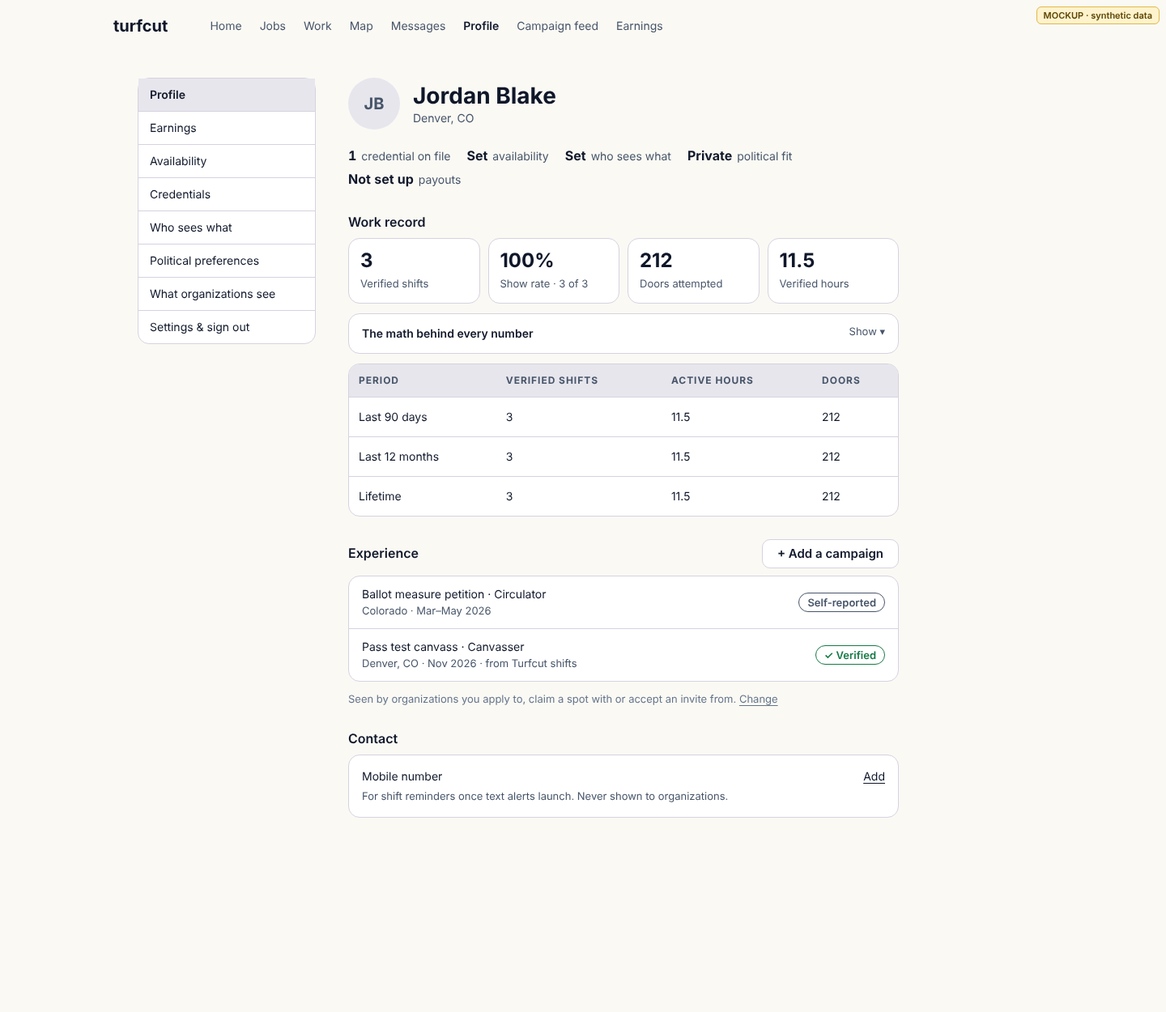
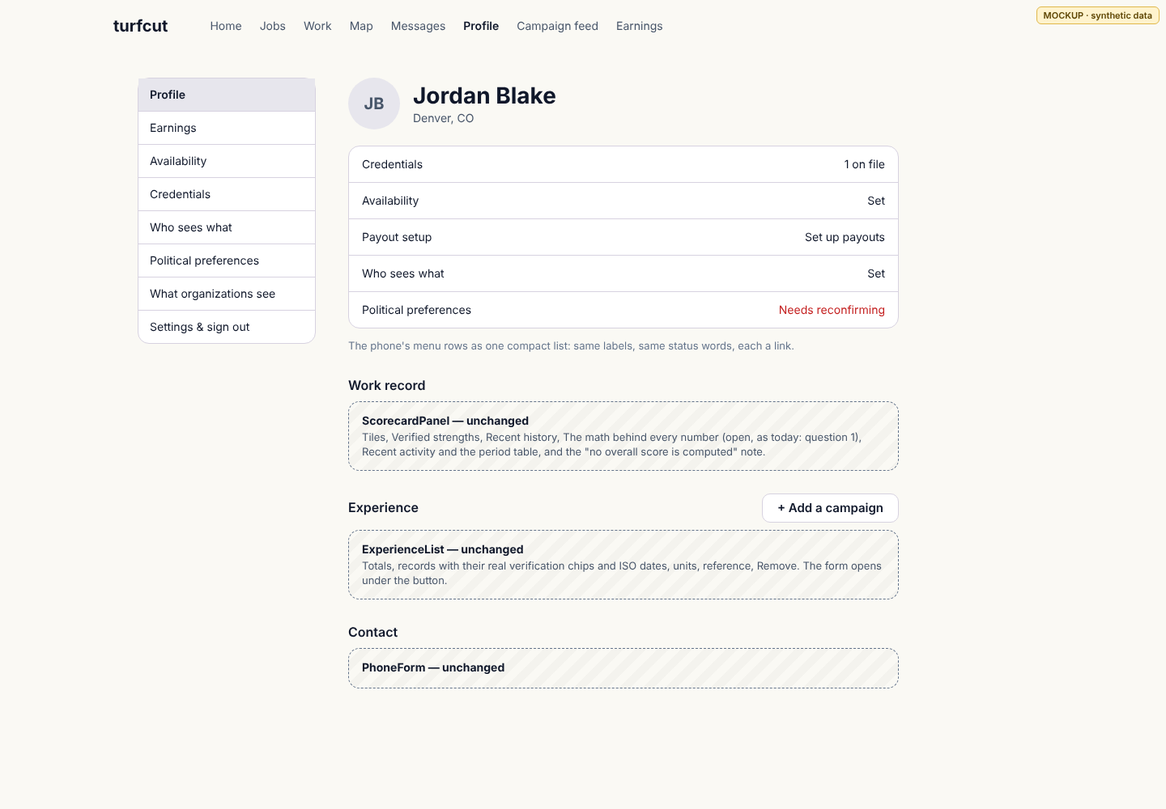
Mockups: plan review fixes (real status words, consent-lapse state, home-area warning kept, unchanged components drawn as placeholders, settings role differences)
Claude-Session: https://claude.ai/code/session_01M5jonG7B326Ty4GJKyZ5gK

diff --git a/docs/design/hero-board/mockups/profile-settings-2026-11-02/src/profile-390.html b/docs/design/hero-board/mockups/profile-settings-2026-11-02/src/profile-390.html
@@ -1,26 +1,21 @@
-<!doctype html><meta charset=utf-8><link rel=stylesheet href=base.css><body><div class="frame" style="width:390px;height:1720px"><div class=tag>MOCKUP · synthetic data</div><div class=page>
+<!doctype html><meta charset=utf-8><link rel=stylesheet href=base.css><body><div class="frame" style="width:390px;height:1500px"><div class=tag>MOCKUP · synthetic data</div><div class=page>
 <div style="display:flex;flex-direction:column;align-items:center;gap:6px;margin-top:4px"><div class=av>JB</div><h1 style="font-size:24px;line-height:32px">Jordan Blake</h1><p class=meta style="margin:0">Denver, CO</p></div>
 <div class="sec card menu">
 <div><span class=ic></span><span class=lbl>Credentials</span><span class=st>1 on file</span><span class=chev>›</span></div>
 <div><span class=ic></span><span class=lbl>Availability</span><span class=st>Set</span><span class=chev>›</span></div>
 <div><span class=ic></span><span class=lbl>Payout setup</span><span class=st>Set up payouts</span><span class=chev>›</span></div>
 <div><span class=ic></span><span class=lbl>Who sees what</span><span class=st>Set</span><span class=chev>›</span></div>
-<div><span class=ic></span><span class=lbl>Political fit</span><span class=st>Private</span><span class=chev>›</span></div>
+<div><span class=ic></span><span class=lbl>Political preferences</span><span class="st alert">Needs reconfirming</span><span class=chev>›</span></div>
 <div><span class=ic></span><span class=lbl>What organizations see</span><span class=chev style="margin-left:auto">›</span></div>
 <div><span class=ic></span><span class=lbl>Settings &amp; sign out</span><span class=chev style="margin-left:auto">›</span></div>
 </div>
+<div class=warn style="margin-top:12px">Turfcut can't place "Capitol Hil", so organizations can't find you yet. Type a ZIP code, or a city with its state ("Aurora, CO"). <u>Fix it</u></div>
 <div class=sec><h2>Work record</h2>
-<div class=tiles><div class=tile><b>3</b><span>Verified shifts</span></div><div class=tile><b>100%</b><span>Show rate · 3 of 3 scheduled</span></div><div class=tile><b>212</b><span>Doors attempted</span></div><div class=tile><b>11.5</b><span>Verified hours, breaks excluded</span></div></div>
-<p class=note>Door-to-door canvass · Worked in CO</p>
-<div class="card" style="margin-top:12px;padding:12px 16px;display:flex;justify-content:space-between;font-size:14px"><span style="font-weight:600">The math behind every number</span><span class=sub>Show ▾</span></div>
-<p class=note>Each rate with its formula, its inputs and the shifts it came from. Derived from recorded work and supervisor reviews; no overall score is computed.</p>
-</div>
-<div class=sec><h2>Experience</h2><p class=note style="margin-top:0">Seen by organizations you apply to, claim a spot with or accept an invite from. <span class=link>Change</span></p>
-<div class="card rows" style="margin-top:10px">
-<div><span>Ballot measure petition · Circulator<br><span class=sub>Colorado · Mar–May 2026</span></span><span class="pill neutral">Self-reported</span></div>
-<div><span>Pass test canvass · Canvasser<br><span class=sub>Denver, CO · Nov 2026 · from Turfcut shifts</span></span><span class="pill ok">✓ Verified</span></div>
-</div>
+<div class=ph><b>ScorecardPanel — unchanged</b>Tiles, Verified strengths, Recent history, The math behind every number (open, as today: question 1), Recent activity, and the "no overall score is computed" note.</div></div>
+<div class=sec><h2>Experience</h2><p class=note style="margin-top:0">Seen by: organizations you apply to, claim a spot with or accept an invite from (experience goes with hours and history). … <span class=link>Change</span></p>
+<div class=ph style="margin-top:10px"><b>ExperienceList — unchanged</b>Verified and self-reported totals, each record with its verification chip ("Self-reported", "Verified by Turfcut", …), ISO dates, units, reference and Remove.</div>
 <div style="margin-top:12px"><span class=btn>+ Add a campaign</span></div>
+<p class=note>The existing ExperienceForm opens under the button. Closed by default, even with no records.</p>
 </div>
-<div class=sec><h2>Contact</h2><div class="card" style="padding:14px 16px;font-size:14px;display:flex;justify-content:space-between"><span>Mobile number<br><span class=sub>Never shown to organizations</span></span><span class=link>Add</span></div></div>
+<div class=sec><h2>Contact</h2><div class=ph><b>PhoneForm — unchanged</b>Mobile number and Save; "Never shown to organizations". Stays on Profile (question 2).</div></div>
 </div><div class="dock"><span>Home</span><span>Jobs</span><span>Work</span><span>Map</span><span>Messages</span><span class="on">More</span></div></div>

diff --git a/docs/design/hero-board/mockups/profile-settings-2026-11-02/src/settings-390.html b/docs/design/hero-board/mockups/profile-settings-2026-11-02/src/settings-390.html
@@ -1,11 +1,13 @@
-<!doctype html><meta charset=utf-8><link rel=stylesheet href=base.css><body><div class="frame" style="width:390px;height:1560px"><div class=tag>MOCKUP · synthetic data</div><div class=page>
-<h1>Settings</h1><p class=meta>Signed in as jordan@example.test</p>
-<div class=sec><h2>Display</h2><p class=note style="margin:0 0 8px">Saved on this device.</p>
+<!doctype html><meta charset=utf-8><link rel=stylesheet href=base.css><body><div class="frame" style="width:390px;height:1400px"><div class=tag>MOCKUP · synthetic data</div><div class=page>
+<h1>Settings</h1><p class=meta>Text size, theme and feel are saved on this device.</p>
+<div class=sec><h2>Display</h2>
 <div class="card group"><h3>Text size</h3><div class=radio><span class="dot on"></span>Default</div><div class=radio><span class=dot></span>Large</div><div class=radio><span class=dot></span>Extra large</div></div>
-<div class="card group" style="margin-top:12px"><h3>Theme</h3><div class=radio><span class="dot on"></span>Match my phone</div><div class=radio><span class=dot></span>Light</div><div class=radio><span class=dot></span>Dark</div><div class=radio><span class=dot></span>Sunlight<br><span class=sub>Black on white, heavier lines, for working outdoors</span></div></div>
-<div class="card group" style="margin-top:12px"><h3>Motion and feel</h3><div class=radio><span class="dot on"></span>Match my phone</div><div class=radio><span class=dot></span>Less motion</div><div class=radio style="justify-content:space-between"><span>Vibrate lightly when I tap a button</span><span class="pill ok">On</span></div></div>
+<div class="card group" style="margin-top:12px"><h3>Theme</h3><div class=radio><span class="dot on"></span>Match my phone</div><div class=radio><span class=dot></span>Light</div><div class=radio><span class=dot></span>Dark</div><div class=radio><span class=dot></span>Sunlight</div><p class=sub style="margin:0 0 8px">Existing Sunlight explanation, unchanged.</p></div>
+<div class="card group" style="margin-top:12px"><h3>Motion</h3><div class=radio><span class="dot on"></span>Match my phone</div><div class=radio><span class=dot></span>Less motion</div></div>
+<div class="card group" style="margin-top:12px"><h3>Feel</h3><div class=radio style="justify-content:space-between"><span>Vibrate lightly when I tap a button</span><span class="pill ok">On</span></div></div>
+<div class=ph style="margin-top:12px"><b>Preview — unchanged</b></div>
 </div>
-<div class=sec><h2>Account</h2><div class="card rows"><div><span>Signed in as jordan@example.test</span><span class=btn style="min-height:36px">Sign out</span></div><div><span>Mobile number<br><span class=sub>Never shown to organizations</span></span><span class=link>Add</span></div></div></div>
-<div class=sec><h2>Your data</h2><div class="card" style="padding:14px 16px;font-size:14px">Everything Turfcut holds about you, as a ZIP of JSON and CSV files.<div style="margin-top:10px"><span class=btn style="min-height:36px">Download my data</span></div></div></div>
-<div class=sec style="margin-top:40px;border-top:1px solid var(--border);padding-top:24px"><h2 style="color:var(--danger)">Close my account</h2><div class="card danger" style="padding:14px 16px;font-size:14px">Your login is removed and your name and phone are replaced with "Former worker". Your work history, pay records and consent history stay as they were recorded.<p style="margin:10px 0 0"><b>Before you can close:</b> you have unpaid pay (1 line).</p><div style="margin-top:10px"><span class="btn" style="color:var(--danger);border-color:#e7b4b4;min-height:36px;opacity:.6">Close my account</span></div></div></div>
+<div class=sec><h2>Account</h2><div class="card rows"><div><span>Signed in as jordan@example.test</span><span class=btn style="min-height:36px">Sign out</span></div></div></div>
+<div class=sec><h2>Your data</h2><div class=ph><b>Download my data — unchanged</b>Workers only.</div></div>
+<div class=sec style="margin-top:40px;border-top:1px solid var(--border);padding-top:24px"><h2 style="color:var(--danger)">Close my account</h2><div class="card danger" style="padding:14px 16px;font-size:14px">Existing explanation, unchanged (shortened here).<p style="margin:10px 0 0"><b>Before you can close:</b></p><ul style="margin:4px 0 0;padding-left:18px"><li>The existing blocker text, unchanged.</li></ul><p class=sub style="margin:8px 0 0">With a blocker there is no close button, as today. Workers only.</p></div></div>
 </div><div class="dock"><span>Home</span><span>Jobs</span><span>Work</span><span>Map</span><span>Messages</span><span class="on">More</span></div></div>

diff --git a/docs/design/hero-board/mockups/profile-settings-2026-11-02/src/profile-1440.html b/docs/design/hero-board/mockups/profile-settings-2026-11-02/src/profile-1440.html
@@ -1,16 +1,12 @@
-<!doctype html><meta charset=utf-8><link rel=stylesheet href=base.css><body><div class="frame" style="width:1440px;height:1250px"><div class=tag>MOCKUP · synthetic data</div>
+<!doctype html><meta charset=utf-8><link rel=stylesheet href=base.css><body><div class="frame" style="width:1440px;height:1000px"><div class=tag>MOCKUP · synthetic data</div>
 <div class=top><b>turfcut</b><span>Home</span><span>Jobs</span><span>Work</span><span>Map</span><span>Messages</span><span style="color:var(--fg);font-weight:600">Profile</span><span>Campaign feed</span><span>Earnings</span></div>
 <div class="card side" style="left:170px"><div class=on>Profile</div><div>Earnings</div><div>Availability</div><div>Credentials</div><div>Who sees what</div><div>Political preferences</div><div>What organizations see</div><div>Settings &amp; sign out</div></div>
 <div style="position:absolute;left:430px;top:96px;width:680px">
 <div style="display:flex;align-items:center;gap:16px"><div class=av>JB</div><div><h1>Jordan Blake</h1><p class=meta style="margin:0">Denver, CO</p></div></div>
-<dl class="sec band" style="margin-top:20px"><div><b>1</b>credential on file</div><div><b>Set</b>availability</div><div><b>Set</b>who sees what</div><div><b>Private</b>political fit</div><div><b>Not set up</b>payouts</div></dl>
-<div class=sec><h2>Work record</h2>
-<div class=tiles style="grid-template-columns:repeat(4,1fr)"><div class=tile><b>3</b><span>Verified shifts</span></div><div class=tile><b>100%</b><span>Show rate · 3 of 3</span></div><div class=tile><b>212</b><span>Doors attempted</span></div><div class=tile><b>11.5</b><span>Verified hours</span></div></div>
-<div class="card" style="margin-top:12px;padding:12px 16px;display:flex;justify-content:space-between;font-size:14px"><span style="font-weight:600">The math behind every number</span><span class=sub>Show ▾</span></div>
-<div class=card style="margin-top:12px;overflow:hidden"><table><tr><th>Period</th><th>Verified shifts</th><th>Active hours</th><th>Doors</th></tr><tr><td>Last 90 days</td><td>3</td><td>11.5</td><td>212</td></tr><tr><td>Last 12 months</td><td>3</td><td>11.5</td><td>212</td></tr><tr><td>Lifetime</td><td>3</td><td>11.5</td><td>212</td></tr></table></div>
-</div>
+<div class="sec card rows" style="margin-top:20px"><div><span>Credentials</span><span>1 on file</span></div><div><span>Availability</span><span>Set</span></div><div><span>Payout setup</span><span>Set up payouts</span></div><div><span>Who sees what</span><span>Set</span></div><div><span>Political preferences</span><span style="color:var(--danger)">Needs reconfirming</span></div></div>
+<p class=note>The phone's menu rows as one compact list: same labels, same status words, each a link.</p>
+<div class=sec><h2>Work record</h2><div class=ph><b>ScorecardPanel — unchanged</b>Tiles, Verified strengths, Recent history, The math behind every number (open, as today: question 1), Recent activity and the period table, and the "no overall score is computed" note.</div></div>
 <div class=sec><div style="display:flex;justify-content:space-between;align-items:baseline"><h2>Experience</h2><span class=btn style="min-height:36px">+ Add a campaign</span></div>
-<div class="card rows" style="margin-top:8px"><div><span>Ballot measure petition · Circulator<br><span class=sub>Colorado · Mar–May 2026</span></span><span class="pill neutral">Self-reported</span></div><div><span>Pass test canvass · Canvasser<br><span class=sub>Denver, CO · Nov 2026 · from Turfcut shifts</span></span><span class="pill ok">✓ Verified</span></div></div>
-<p class=note>Seen by organizations you apply to, claim a spot with or accept an invite from. <span class=link>Change</span></p></div>
-<div class=sec><h2>Contact</h2><div class="card" style="padding:14px 16px;font-size:14px;display:flex;justify-content:space-between"><span>Mobile number<br><span class=sub>For shift reminders once text alerts launch. Never shown to organizations.</span></span><span class=link>Add</span></div></div>
+<div class=ph style="margin-top:8px"><b>ExperienceList — unchanged</b>Totals, records with their real verification chips and ISO dates, units, reference, Remove. The form opens under the button.</div></div>
+<div class=sec><h2>Contact</h2><div class=ph><b>PhoneForm — unchanged</b></div></div>
 </div></div>

diff --git a/docs/design/hero-board/mockups/profile-settings-2026-11-02/src/sharing-390.html b/docs/design/hero-board/mockups/profile-settings-2026-11-02/src/sharing-390.html
@@ -1,6 +1,7 @@
-<!doctype html><meta charset=utf-8><link rel=stylesheet href=base.css><body><div class="frame" style="width:390px;height:2010px"><div class=tag>MOCKUP · synthetic data</div><div class=page>
+<!doctype html><meta charset=utf-8><link rel=stylesheet href=base.css><body><div class="frame" style="width:390px;height:2120px"><div class=tag>MOCKUP · synthetic data</div><div class=page>
 <div class=crumb><a>Profile</a></div><h1>Who sees what</h1>
 <p class=meta>Choose who sees each part of your profile. Anything you don't share shows as "not shared" to organizations, never as a zero, and is never used to rank you.</p>
+<p class=note>You haven't changed anything yet: … (the existing "last changed" hint, unchanged)</p>
 <p class=note>Your political-fit answers have their own settings, under Political fit on your profile.</p>
 <div class="card group" style="margin-top:12px"><h3>Output rates</h3><p class=sub>Doors per hour, doors per shift, signatures per hour</p><div class=radio><span class="dot on"></span>Organizations I apply to, claim a spot with or accept an invite from</div><div class=radio><span class=dot></span>Any organization Turfcut has approved</div><div class=radio><span class=dot></span>Nobody</div></div>
 <div class="card group" style="margin-top:12px"><h3>Quality</h3><p class=sub>Signature acceptance rate, contact rate</p><div class=radio><span class="dot on"></span>Organizations I apply to, claim a spot with or accept an invite from</div><div class=radio><span class=dot></span>Any organization Turfcut has approved</div><div class=radio><span class=dot></span>Nobody</div></div>
@@ -8,7 +9,8 @@
 <div class="card group" style="margin-top:12px"><h3>Hours and history</h3><p class=sub>Verified shifts, active hours, campaigns, states and dates worked, totals, and the experience you list</p><div class=radio><span class="dot on"></span>Organizations I apply to, claim a spot with or accept an invite from</div><div class=radio><span class=dot></span>Any organization Turfcut has approved</div><div class=radio><span class=dot></span>Nobody</div></div>
 <div class="card group" style="margin-top:12px"><h3>Availability</h3><p class=sub>Your usual week, date exceptions and note</p><div class=radio><span class="dot on"></span>Organizations I apply to, claim a spot with or accept an invite from</div><div class=radio><span class=dot></span>Any organization Turfcut has approved</div><div class=radio><span class=dot></span>Nobody</div></div>
 <div class="card group" style="margin-top:12px"><h3>Credentials</h3><p class=sub>Name, verification level and expiry of each credential</p><div class=radio><span class="dot on"></span>Organizations I apply to, claim a spot with or accept an invite from</div><div class=radio><span class=dot></span>Any organization Turfcut has approved</div><div class=radio><span class=dot></span>Nobody</div></div>
-<p class=note>"Any organization Turfcut has approved" matters when you let organizations find you (below).</p>
-<div class="card" style="margin-top:12px;padding:14px 16px;font-size:14px"><div style="display:flex;justify-content:space-between;align-items:center"><b>Let organizations find me</b><span class="pill neutral">Off</span></div><p class=sub style="margin:6px 0 0">Off by default. The full explanation stays word for word; shown shortened here.</p></div>
+<p class=note>"Any organization Turfcut has approved" matters when you let organizations find you (below)… (existing paragraph, unchanged; shortened here)</p>
+<div class="card" style="margin-top:12px;padding:14px 16px;font-size:14px"><div style="display:flex;justify-content:space-between;align-items:center"><b>Let organizations find me</b><span class="pill ok">On</span></div><p class=sub style="margin:6px 0 0">Shown on, with the home area the worker typed. Off by default. The full explanation stays word for word; shown shortened here.</p></div>
+<div class=warn style="margin-top:12px">Turfcut can't place "Capitol Hil", so organizations can't find you yet. Type a ZIP code, or a city with its state ("Aurora, CO").</div>
 <div class=sec><span class="btn primary">Save</span></div>
 </div><div class="dock"><span>Home</span><span>Jobs</span><span>Work</span><span>Map</span><span>Messages</span><span class="on">More</span></div></div>

diff --git a/docs/design/hero-board/mockups/profile-settings-2026-11-02/src/base.css b/docs/design/hero-board/mockups/profile-settings-2026-11-02/src/base.css
@@ -43,3 +43,7 @@ td:first-child,.pill{white-space:nowrap}
 .top{height:64px;display:flex;align-items:center;gap:22px;padding:0 140px;font-size:14px;color:var(--muted)}.top b{color:var(--fg);font-size:20px;margin-right:30px}
 .seg{display:flex;border:1px solid var(--border);border-radius:10px;overflow:hidden;font-size:13px}.seg span{flex:1;text-align:center;padding:8px 4px;border-left:1px solid var(--border)}.seg span:first-child{border-left:0}.seg .on{background:var(--eggplant);color:#fff;font-weight:600}
 .rows .pill{flex:none;align-self:center}
+.ph{border:1px dashed var(--subtle);border-radius:14px;padding:14px 16px;font-size:13px;line-height:18px;color:var(--muted);background:repeating-linear-gradient(135deg,transparent 0 10px,rgba(0,0,0,.025) 10px 20px)}
+.ph b{color:var(--fg);display:block;font-size:14px;margin-bottom:2px}
+.warn{background:#fff7e6;border:1px solid #e0b84a;border-radius:12px;padding:10px 12px;font-size:13px;line-height:18px;color:#5c4400}
+.menu .st.alert{color:var(--danger)}

diff --git a/docs/design/hero-board/mockups/profile-settings-2026-11-02/PLAN.md b/docs/design/hero-board/mockups/profile-settings-2026-11-02/PLAN.md
@@ -1,10 +1,12 @@
 # Profile and settings: plan and mockups for review (2026-11-02)
 
-This is the last family from #114's route contracts: worker profile editing, Who sees what, and Settings. These are mockups for review before building, not implementation. Each PNG is rendered from the HTML in `src/` on the design tokens' values (the same `base.css` as `../families-2026-11-01`). Every frame is labelled "MOCKUP · synthetic data".
+This is the last family from #114's route contracts: worker profile editing, Who sees what, and Settings. The PNGs are rendered from the HTML in `src/` on the design tokens' values (the same `base.css` as `../families-2026-11-01`). Every frame is labelled "MOCKUP · synthetic data".
 
-The current pages are in `current/`. They were captured from a local test database during the functional pass, on the #120 tree, which doesn't touch these pages. One number in `current/profile-*-now.png` is an artifact of that test: "6,704.22 doors per active hour" comes from a 21-second test shift. See the questions at the end.
+This family changes **page structure**, not the sections inside it. Components that stay exactly as they are (ScorecardPanel, ExperienceList, ExperienceForm, PhoneForm, the account download, the closure text) are drawn as dashed "unchanged" placeholders, so the mockups never stand in for their real content or wording. Every status word shown is one the code already produces.
 
-Every field in the mockups is one a loader already returns. Nothing needs a schema change, a new dependency or new wording on a consent screen.
+The current pages are in `current/`. They were captured from a local test database during the functional pass, on the #120 tree, which doesn't touch these pages. One number in `current/profile-*-now.png` is an artifact of that test: "6,704.22 doors per active hour" comes from a 21-second test shift (question 3).
+
+Nothing here needs a schema change, a new dependency or new wording on a consent screen.
 
 ## What's wrong today
 
@@ -14,50 +16,70 @@ Every field in the mockups is one a loader already returns. Nothing needs a sche
 | `/settings` | Titled "Display settings" while it also holds Account, Your data and Close my account. Every radio option is its own bordered card. Close my account isn't set apart. | "Group related fields with one section heading, not a card per input." "Danger zone separated at the end." |
 | `/profile/sharing` | 2,829px on a phone: 6 parts × 3 bordered option cards each. | The same card-per-input rule. |
 
-Availability, credentials, political-fit preferences, preview and setup already follow the reading/form layout. Only the shared radio styling changes there (see 3).
+Availability, credentials, political-fit preferences, preview and setup already follow the reading/form layout. They only pick up the shared radio-row style (see 3).
 
 ## 1. Profile — `profile-390.png`, `profile-1440.png`
 
-- **Phone:** the head (initials, name, the home area only when the worker saved one), then the menu rows.
-  - Two rows are new: **Political fit**, whose status words come from the latest preference's visibility mode ("Private" etc., or "Not answered"), and **What organizations see**.
+- **Menu rows (phone):** labels follow `PROFILE_SECTIONS`, the desktop sub-nav, so both name things the same way.
+  - "Sharing & privacy" becomes **Who sees what**.
+  - "Display settings" becomes **Settings & sign out**.
+  - New: **Political preferences** and **What organizations see**.
   - The "Work record" and "Experience" rows go: those sections follow straight after, so the rows only scrolled down.
-- **Desktop:** the left sub-nav stays as it is. The menu's status words become one compact band under the name, in the same words as the phone rows.
-- **Work record:** unchanged content.
-  - Tiles, verified strengths, then "The math behind every number" folded under a disclosure, closed by default (question 1).
-  - The note "no overall score is computed" stays visible above the fold.
-- **Experience:** the list, then a "+ Add a campaign" button that opens the existing `ExperienceForm`.
-  - Closed by default, even when the list is empty. The empty state says what experience is for.
+- **Political preferences status**, from `loadLatestPreference`:
+  - **"Needs reconfirming"** in the danger colour whenever the consent status isn't `current` (expired or reworded). Until then nothing is used or shown, so the row must never name a mode.
+  - Otherwise the current mode's label ("Private", "Organizations I work with", "Recruiters I approve").
+  - **"Not set yet"** when no answer exists. That's today's wording.
+- **Desktop:** the left sub-nav stays. The same rows and status words appear as one compact list under the name.
+- **Home-area warning:** "Turfcut can't place … so organizations can't find you yet" today lives only in the profile's Who sees what section. It moves directly under the menu (shown only when findable and the area can't be placed), and onto the Sharing page (see 3). It is never dropped.
+- **Work record:** ScorecardPanel unchanged. "The math behind every number" stays open (question 1). ScorecardPanel is shared with the organization's view of a worker, so any fold would be a profile-only prop.
+- **Experience:** ExperienceList unchanged.
+  - The existing ExperienceForm sits behind a "+ Add a campaign" button, closed by default even with no records.
+  - The empty state keeps saying what experience is for.
+- **Contact:** PhoneForm unchanged and stays on Profile (question 2).
 - **Removed from this page:** the duplicate Availability, Credentials, Who sees what and Political fit sections. Each has its own page, linked with its status.
-- **Contact:** one row (mobile number, "Never shown to organizations"), with Add / Change opening the existing `PhoneForm`. Whether it moves to Settings › Account instead is question 2.
+  - The section's "Not until you confirm your choices" line is covered by the existing reminder card ("Check who sees what"), which stays.
 
 ## 2. Settings — `settings-390.png`
 
-- The title is **Settings** when signed in. It stays **Display settings** when signed out, because then the display options are all it holds.
-- **Display:** text size, theme, motion and feel as plain radio lists, one card per group, under "Saved on this device".
-- **Account:** sign out, plus the mobile number if question 2 says yes.
-- **Your data:** the existing download.
-- **Close my account:** last, below a divider, with a danger heading. The existing explanation, blockers and disabled state are unchanged. Organization accounts still don't get it.
+- **Title:** **Settings** when signed in, in both the heading and the document title (today a static "Display settings · Turfcut"). **Display settings** when signed out, because then the display options are all it holds.
+- **Display:** text size, theme, motion and feel as plain radio lists, one card per group. The Sunlight explanation and the preview are unchanged.
+- **Account:** "Signed in as …" and Sign out, once.
+  - Signed in but without a profile: this section only.
+- **Turfcut staff:** the existing admin link for staff, unchanged.
+- **Your data** and **Close my account:** workers only, as today.
+  - Close my account comes last, below a divider, under a danger heading.
+  - The explanation and blocker texts are unchanged. With a blocker there is no close button, as today.
+  - If loading the closure facts fails, both stay hidden as today. That is a captured state.
 
 ## 3. Who sees what — `sharing-390.png`
 
-- **Layout only.** Every label, explanation and option keeps its exact words. The sharing record's version and the reconfirmation behaviour depend on that wording, so nothing here changes it.
-- Each part becomes one card, with its options as plain radio rows separated by hairlines instead of three bordered cards. That cuts about a third of the height.
-- "Let organizations find me" keeps its full explanation (shortened in the mockup only).
-- The same radio-row style applies wherever the app uses option cards for a single choice in these routes: Settings and Political fit. The job builder and signup's two-way account-type switch keep their cards, because there the card is the choice's picture.
+- **Layout only.** Every label, explanation, hint and option keeps its exact words. The mockup shortens two long paragraphs and marks where.
+- The wording is versioned by hand: `SHARING_TEXT_VERSION` in `src/lib/sharing.ts`, which `loadSharing`, `saveSharing`, the form and matches compare against. No test pins the strings today. So this slice **adds a test that pins the labels and explanations**, which makes "layout only" provable: any rewording fails the test and needs a deliberate version bump.
+- Each part becomes one card, with its options as plain radio rows separated by hairlines instead of three bordered cards.
+- The home-area warning appears here too, next to "Let organizations find me", when findable and the area can't be placed.
+- The same radio-row style applies to the single-choice option cards in Settings and Political preferences. The job builder and signup's two-way account-type switch keep their cards.
 
 ## States to capture when built
 
-- **Profile:** first visit (defaults, the "Choose who sees what" reminder), sharing that needs reconfirming, no experience, self-reported and verified experience, expired credential (the row's status in danger), no home area, payouts not available.
-- **Settings:** signed out, worker, organization member, close blocked, close allowed (confirmation step), failed sign-out.
-- **Sharing:** defaults never saved, saved, needs confirming, findable on without a placeable home area, failed save.
+- **Profile:**
+  - first visit (defaults, "Choose who sees what")
+  - sharing needs confirming
+  - findable with an unplaceable home area
+  - political preferences: not set yet, current (each mode), needs reconfirming
+  - no experience, and self-reported experience
+  - expired credential (row in danger)
+  - no home area
+  - payouts not available
+- **Settings:** signed out, signed in without a profile, worker, organization member, staff, close blocked, close allowed (confirmation step), closure facts unavailable.
+- **Sharing:** defaults never saved, saved, needs confirming, findable with an unplaceable home area, failed save.
 
 Each at 390 and 1440, in light and dark.
 
 ## Questions for review
 
-1. **"The math behind every number":** fold it under a disclosure (closed), or keep it open as today? Folding saves most of the work-record height on a phone. Every rate stays one tap away with its formula and inputs.
-2. **Mobile number:** keep it on Profile as one row, or move it to Settings › Account? It's account data, never shown to organizations.
+1. **"The math behind every number":** keep it open, as today (the plan's default), or fold it under a disclosure on the worker's own profile only? Folding saves most of the work-record height on a phone but hides every rate behind one tap.
+2. **Mobile number:** stays on Profile (the default), or move to Settings › Account? It's account data, never shown to organizations.
 3. **Tiny shifts:** a 21-second test shift showed "6,704.22 doors per active hour" on the profile. A real accidental check-in and check-out would show organizations the same kind of absurd rate.
    - Should a rate need a minimum amount of active time before it's shown, "not enough data" otherwise?
    - That changes how a metric is defined, so it needs your decision first. It isn't part of this layout work.
-4. **Order:** I plan Profile, then Settings, then Who sees what, one reviewed slice each, with evidence.
+4. **Order:** Profile, then Settings, then Who sees what, one reviewed slice each, with evidence. Built with the defaults above; anything you change in review is a small follow-up.
